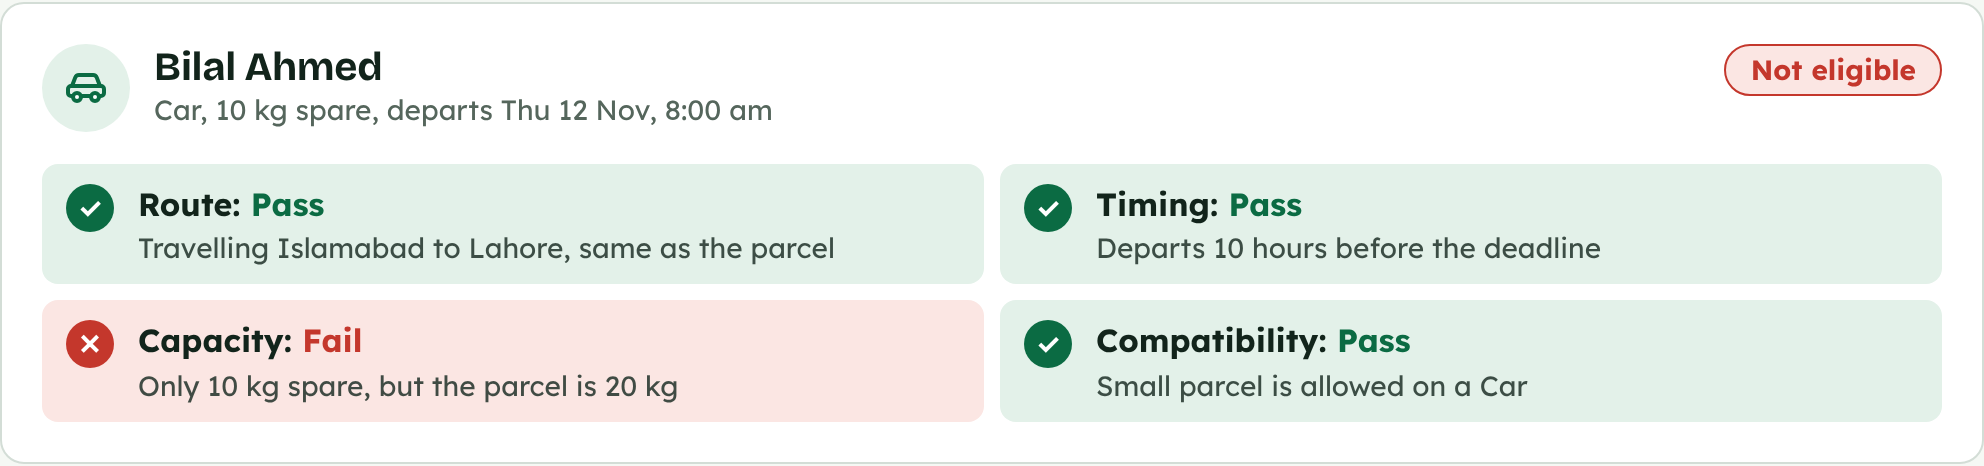
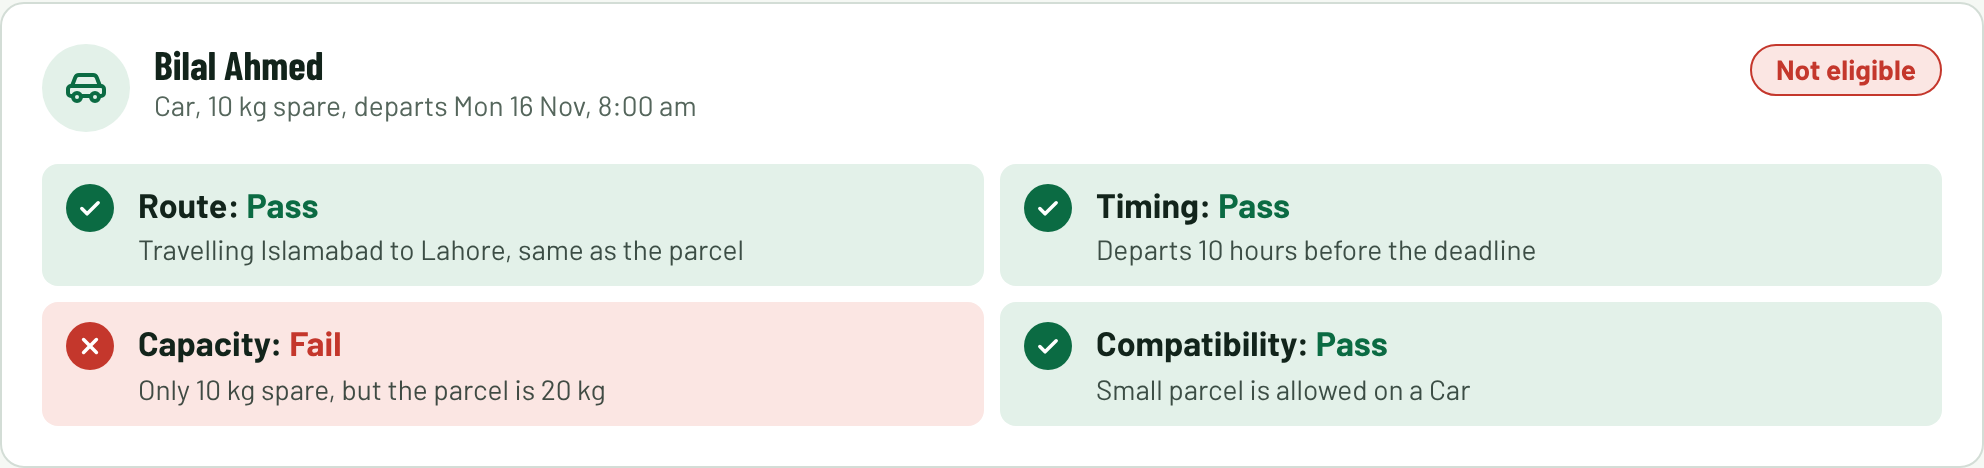
Finish the Home page redesign: build log and screenshots
Claude-Session: https://claude.ai/code/session_01KMX8YgVyAEEbRayQVQssk2

diff --git a/BUILD_LOG.md b/BUILD_LOG.md
@@ -315,3 +315,42 @@ opting out. This replaces the "light only" declaration from Stage 12.
 - **Not verified here:** Samsung Internet itself. The dark theme should stop
   it applying its own colours, but that needs confirming on the phone.
   Screenshots: `test-screenshots/design-pass/dark-*.png`.
+
+## Stage 14: Home page redesign
+
+The team asked for a bolder Home page, built with three design skills as
+guidance (Emil Kowalski's design skills, Impeccable and the Taste skill),
+keeping the green brand colour and using diagrams instead of photos. A first,
+subtler version was shown and rejected as too close to the old page.
+
+**Home page**
+- The hero is now a route map of the eight cities (`src/components/HeroMap.jsx`),
+  drawn like a transit map in three greens. The Islamabad to Lahore demo
+  route is drawn as a road with a "5 kg, PKR 500" tag. When the page opens,
+  the routes draw themselves and an amber parcel rides that road once.
+- "What it costs" is a band of motorway green with large prices, bars to
+  scale and an amber "Save 50%" badge.
+- New closing section with two buttons (Post a parcel, Post a journey).
+- Removed: the green hero panel, the three fact tiles (their facts moved
+  into the map tag and the "How it works" sentence) and the background web
+  of routes (`RouteWeb.jsx`).
+
+**Every page**
+- New typeface: Barlow Condensed for headings and Barlow for text, a family
+  modelled on road-sign lettering. Replaces Bricolage Grotesque and Lexend.
+- Buttons shrink slightly when pressed; drawn icons replace the text symbols
+  for ticks, crosses and arrows; selected text, the typing cursor, checkboxes
+  and scrollbars use the brand colours.
+- Layouts, matching rules and logic are unchanged.
+
+**What was not used from the skills:** photos, shader effects and real
+product logos (the team chose diagrams); the skills' checker programs and
+hooks (their written rules were followed by hand). The skills are installed
+in `.claude/skills`, which is not uploaded to GitHub.
+
+**Checked:** all seven pages viewed at phone width in both themes; Home also
+at desktop width; no sideways scrolling or browser errors; the phone bottom
+menu no longer clips "Dashboard". All 8 tests re-run: 8 of 8 passed, and
+their screenshots were re-taken. The map is a diagram: cities are roughly
+placed and the lines do not follow real roads.
+Screenshots: `test-screenshots/design-pass/redesign-*.png`.
